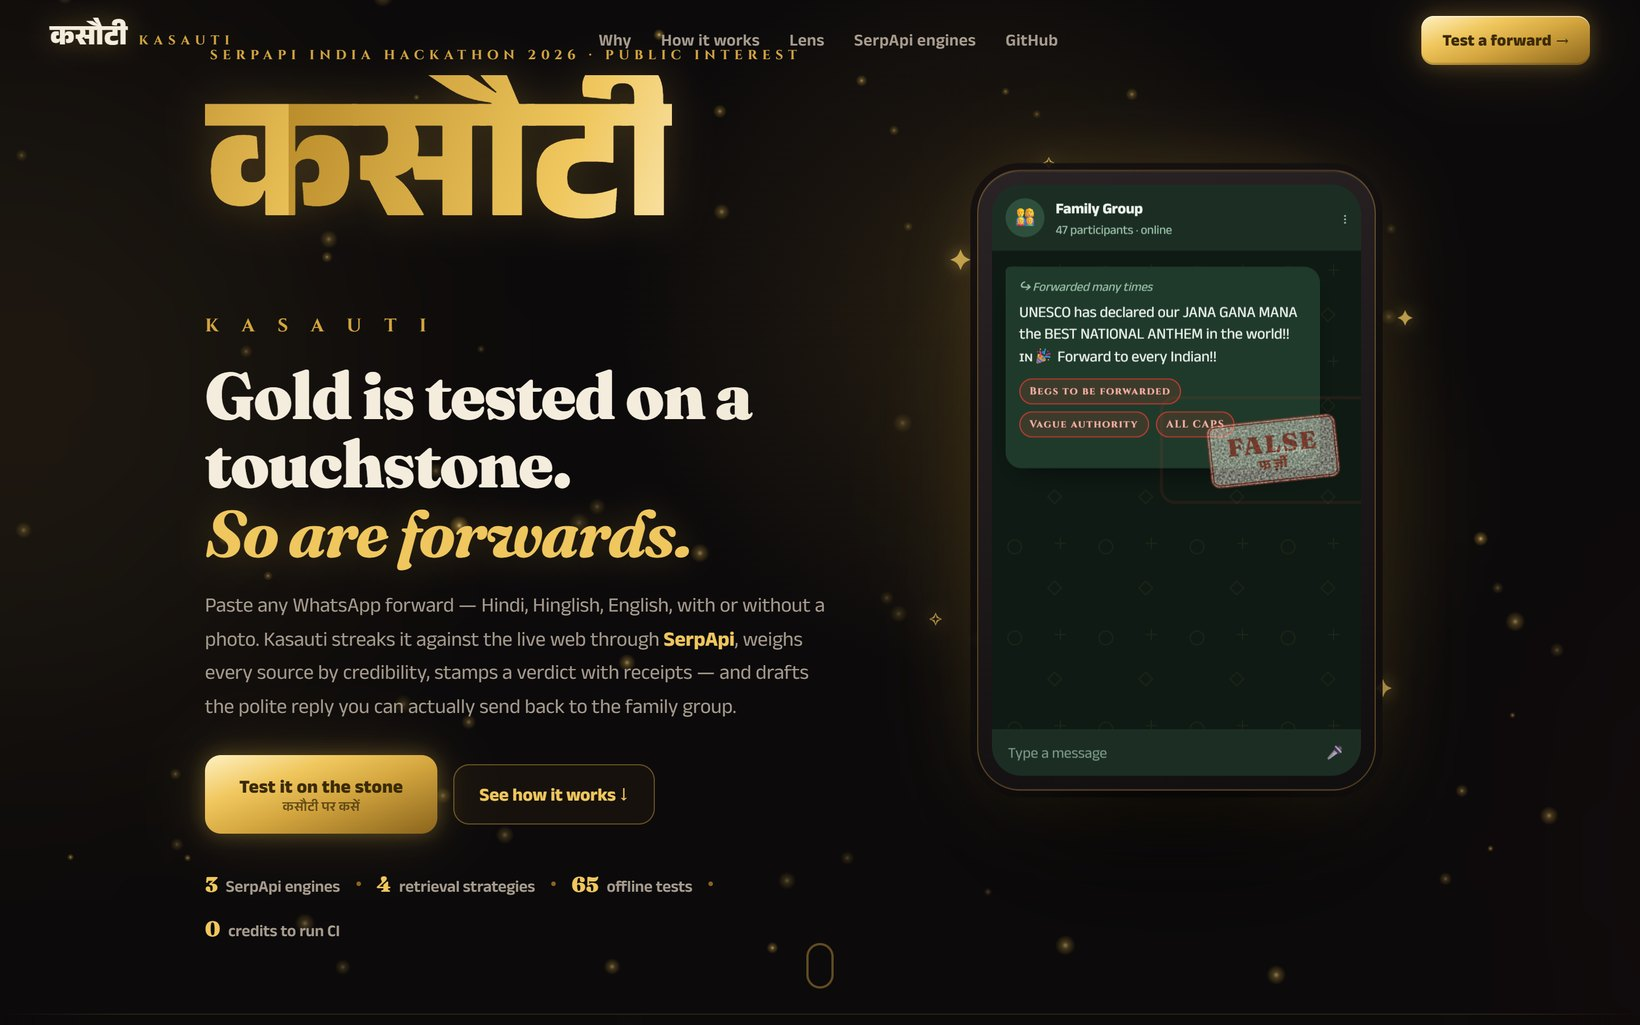
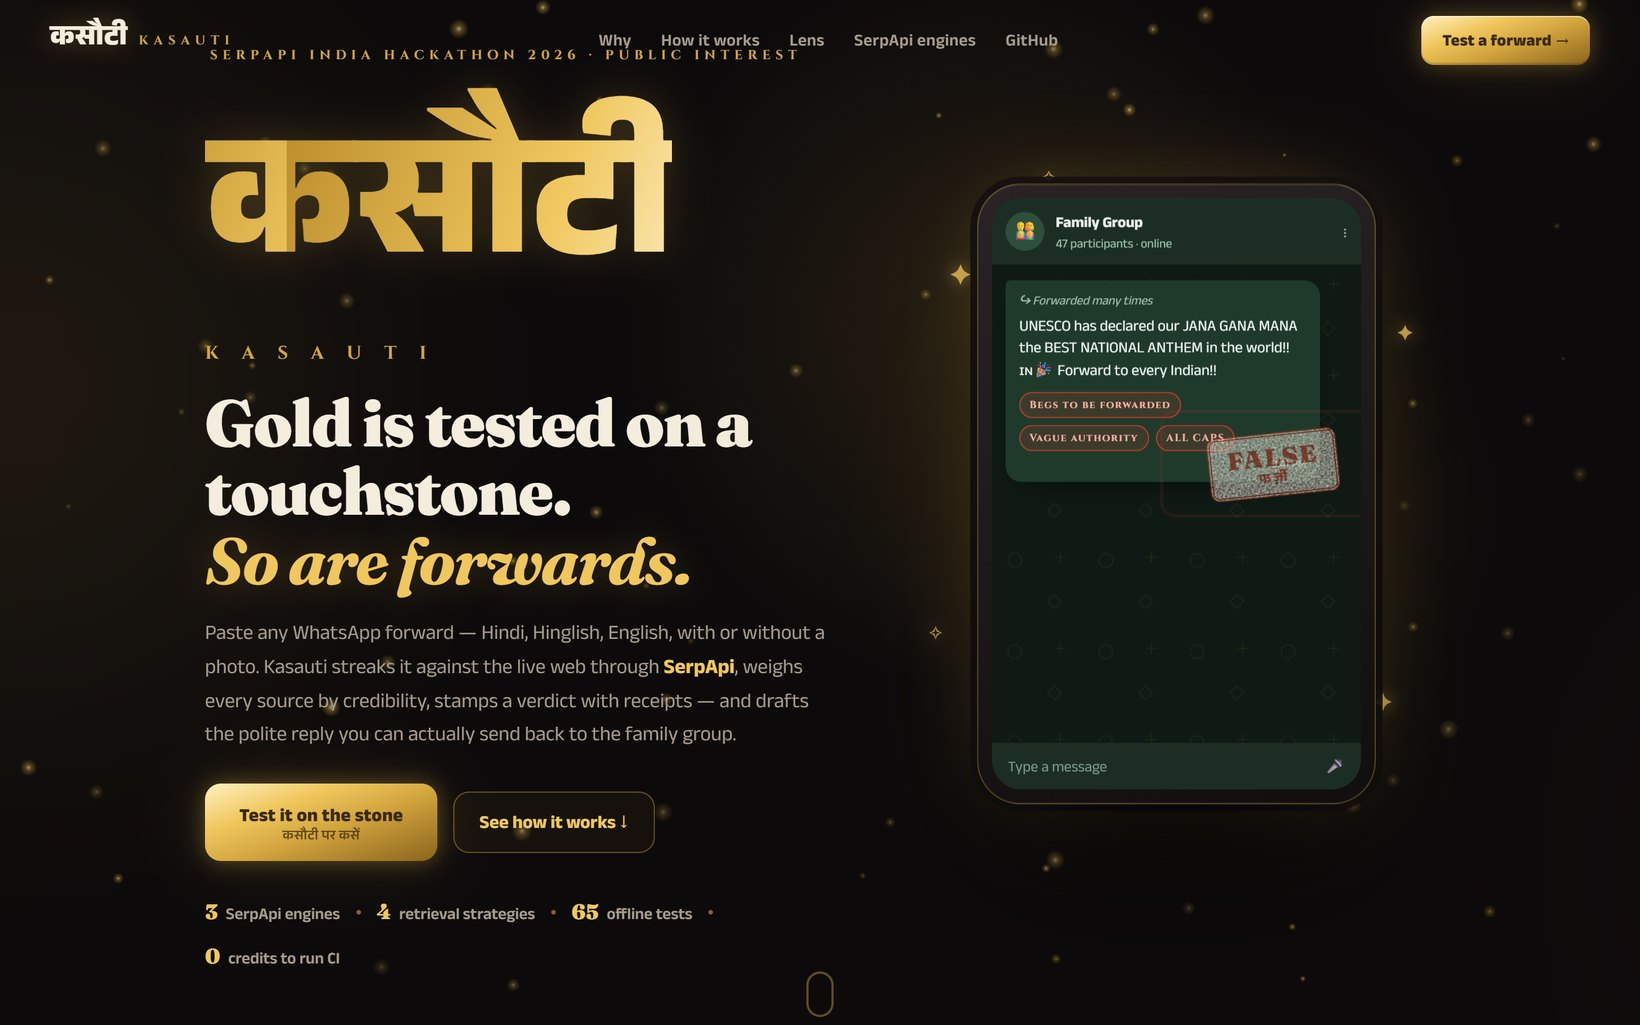
Give the wordmark real headroom above the eyebrow
The previous fix let the Devanagari ascenders paint (top padding inside the
background-clip box) but cancelled that padding with an equal negative
margin, so the glyphs still sat under the eyebrow line. The padding is now
genuine space on both the landing hero and the checker header.

diff --git a/src/kasauti/webui/landing.css b/src/kasauti/webui/landing.css
@@ -22,9 +22,11 @@
 .hero-grid { display: grid; grid-template-columns: 1.1fr .9fr; gap: clamp(28px, 5vw, 70px); align-items: center; width: 100%; }
 /* Devanagari's headline stroke and matra flags sit above the em box: a line
    box of ~1.3 keeps them inside it instead of overlapping the eyebrow. */
-.wordmark-xl { font-family: var(--font-hindi); font-weight: 800; font-size: clamp(5rem, 13vw, 9.5rem); line-height: 1.3; margin-top: 8px; letter-spacing: -.01em; }
-.wordmark-xl .gold-text { display: inline-block; padding-top: .25em; margin-top: -.25em; }
-.hero .eyebrow { margin-bottom: 4px; }
+.wordmark-xl { font-family: var(--font-hindi); font-weight: 800; font-size: clamp(5rem, 13vw, 9.5rem); line-height: 1.2; margin-top: 0; letter-spacing: -.01em; }
+/* Real headroom, not cancelled by a negative margin: the ौ flag tops out
+   ~0.15em above the line box, so .3em of padding keeps it off the eyebrow. */
+.wordmark-xl .gold-text { display: inline-block; padding-top: .3em; margin-top: 0; }
+.hero .eyebrow { margin-bottom: 2px; }
 .latmark { font-family: var(--font-caps); font-weight: 700; font-size: clamp(.8rem, 1.4vw, 1rem); letter-spacing: .5em; color: var(--gold); margin: 10px 0 18px; }
 .hero h1 {
   font-family: var(--font-display); font-weight: 900; font-variation-settings: "SOFT" 60, "WONK" 1;

diff --git a/src/kasauti/webui/styles.css b/src/kasauti/webui/styles.css
@@ -215,7 +215,7 @@ main.app { max-width: 820px; margin: 0 auto; padding: 0 18px 40px; }
 .app-head { text-align: center; padding: 54px 0 10px; }
 /* Devanagari ascenders (the headline stroke, the ौ flag) sit above the em box;
    background-clip:text only paints inside the line box, so give it room. */
-.app-head .wordmark { display: block; font-family: var(--font-hindi); font-weight: 800; font-size: clamp(3.4rem, 9vw, 5.4rem); line-height: 1.2; padding-top: .3em; margin: calc(-.3em + 2px) 0 -6px; }
+.app-head .wordmark { display: block; font-family: var(--font-hindi); font-weight: 800; font-size: clamp(3.4rem, 9vw, 5.4rem); line-height: 1.2; padding-top: .34em; margin: 0 0 -6px; }
 .app-head h1 {
   font-family: var(--font-display); font-weight: 900; font-variation-settings: "SOFT" 60, "WONK" 1;
   font-size: clamp(1.5rem, 3.6vw, 2.2rem); line-height: 1.15; margin: 10px 0 6px; color: var(--paper); letter-spacing: -.01em;
